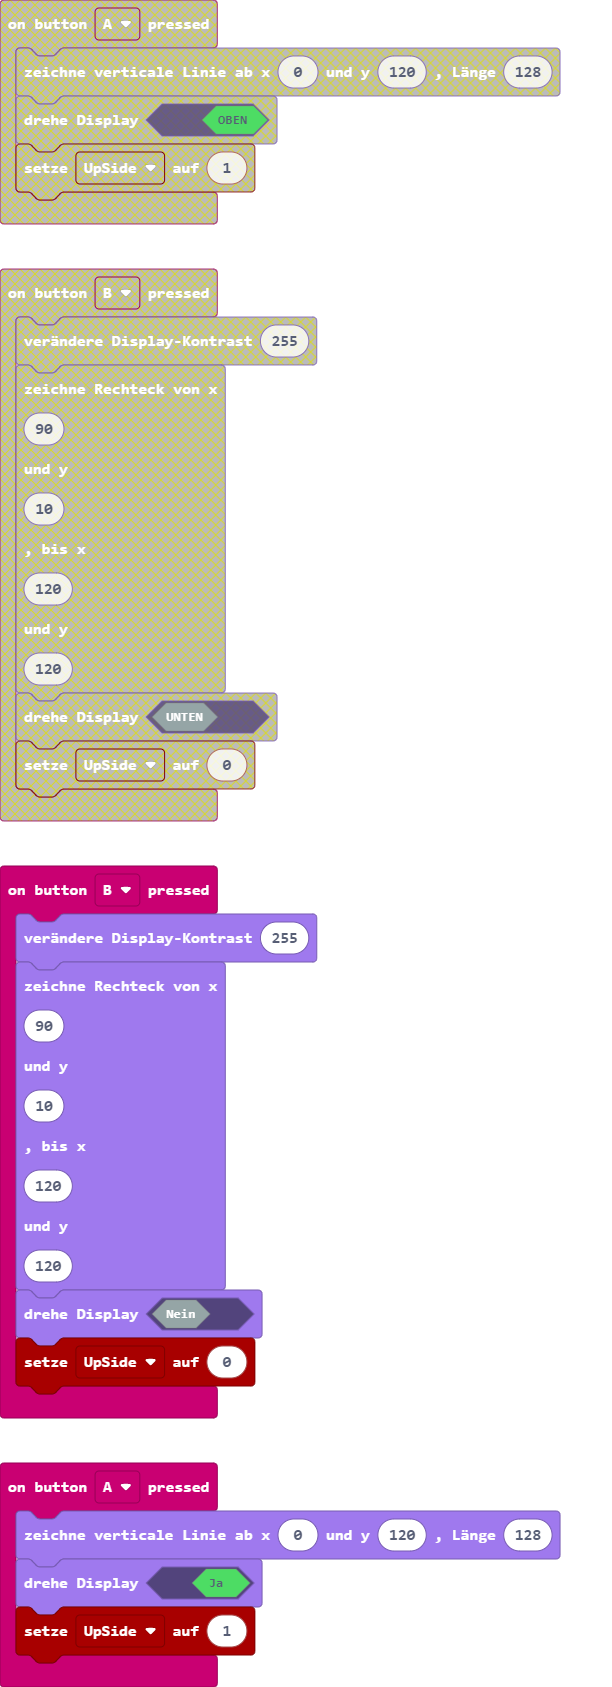
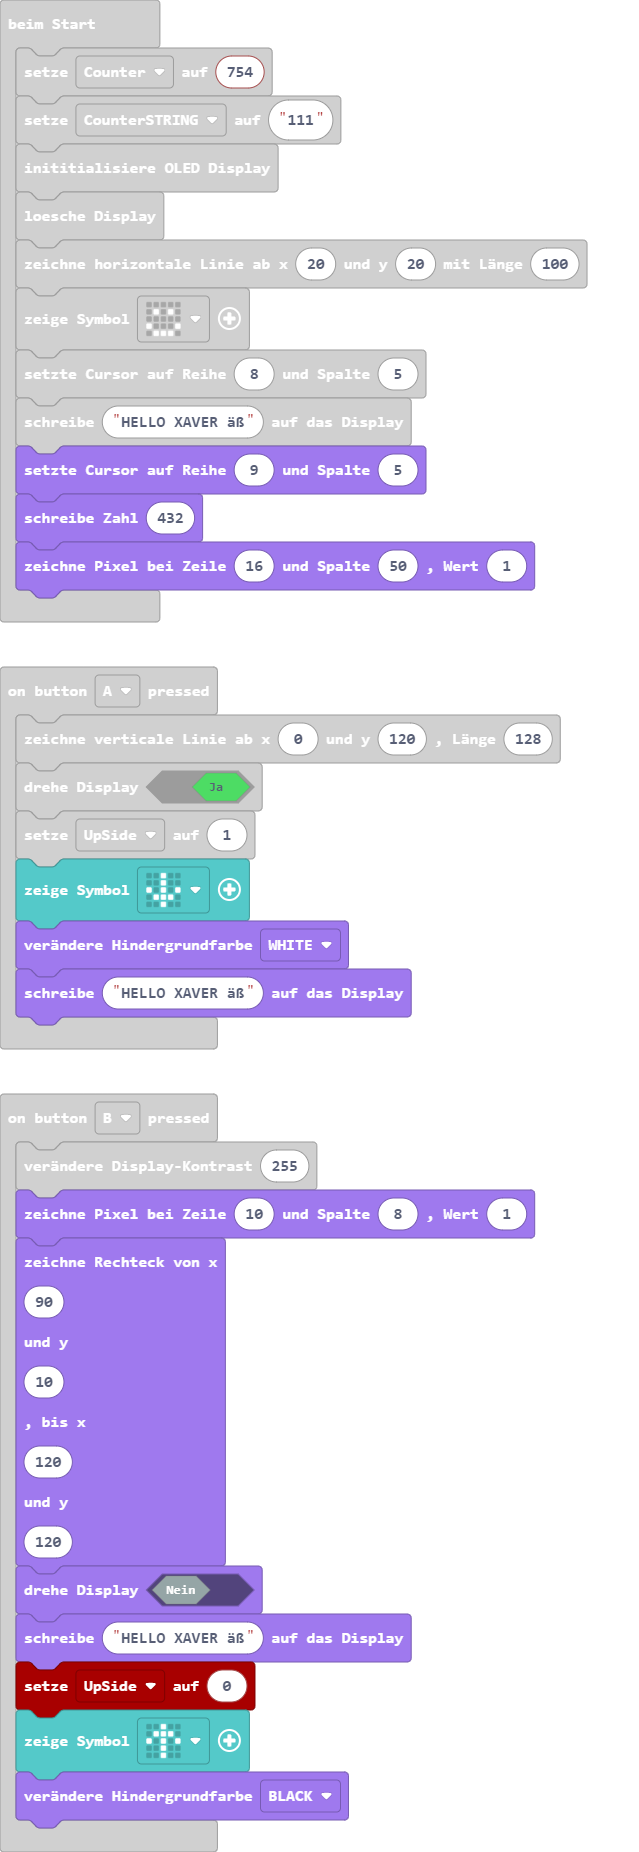
Aktualisiere pxt.json, main.blocks, main.ts, custom.ts

diff --git a/main.ts b/main.ts
@@ -2,6 +2,9 @@ input.onButtonPressed(Button.A, function () {
     groveOledDisplay.drawVLine(0, 120, 128)
     groveOledDisplay.flipDisplay(true)
     UpSide = 1
+    basic.showIcon(IconNames.ArrowSouth)
+    groveOledDisplay.setBackground(BckColor.WHITE)
+    groveOledDisplay.writeString("HELLO XAVER äß")
 })
 input.onButtonPressed(Button.AB, function () {
     groveOledDisplay.setContrast(10)
@@ -11,6 +14,7 @@ input.onButtonPressed(Button.AB, function () {
 })
 input.onButtonPressed(Button.B, function () {
     groveOledDisplay.setContrast(255)
+    groveOledDisplay.drawPixel(10, 8, 1)
     groveOledDisplay.drawRec(
     90,
     10,
@@ -18,12 +22,15 @@ input.onButtonPressed(Button.B, function () {
     120
     )
     groveOledDisplay.flipDisplay(false)
+    groveOledDisplay.writeString("HELLO XAVER äß")
     UpSide = 0
+    basic.showIcon(IconNames.ArrowNorth)
+    groveOledDisplay.setBackground(BckColor.BLACK)
 })
 let UpSide = 0
 let CounterSTRING = ""
 let Counter = 0
-Counter = 300
+Counter = 754
 CounterSTRING = "111"
 groveOledDisplay.init()
 groveOledDisplay.clearDisplay()
@@ -31,3 +38,6 @@ groveOledDisplay.drawHLine(20, 20, 100)
 basic.showIcon(IconNames.Happy)
 groveOledDisplay.setTextXY(8, 5)
 groveOledDisplay.writeString("HELLO XAVER äß")
+groveOledDisplay.setTextXY(9, 5)
+groveOledDisplay.putNumber(432)
+groveOledDisplay.drawPixel(16, 50, 1)

diff --git a/custom.ts b/custom.ts
@@ -155,7 +155,7 @@ namespace groveOledDisplay {
         export function flipDisplay(direction:boolean) {  
             if (direction){
                 sendCommand(0xA1);
-                sendCommand(0xC8);
+                sendCommand(0xC0);
                 clearDisplay();
                 sendCommand(0xb0);
                 sendCommand(0x0);
@@ -163,7 +163,7 @@ namespace groveOledDisplay {
             } 
             else {
                 sendCommand(0xA0);
-                sendCommand(0xC0);
+                sendCommand(0xC8);
                 clearDisplay();
                 sendCommand(0xb0);
                 sendCommand(0x0);
